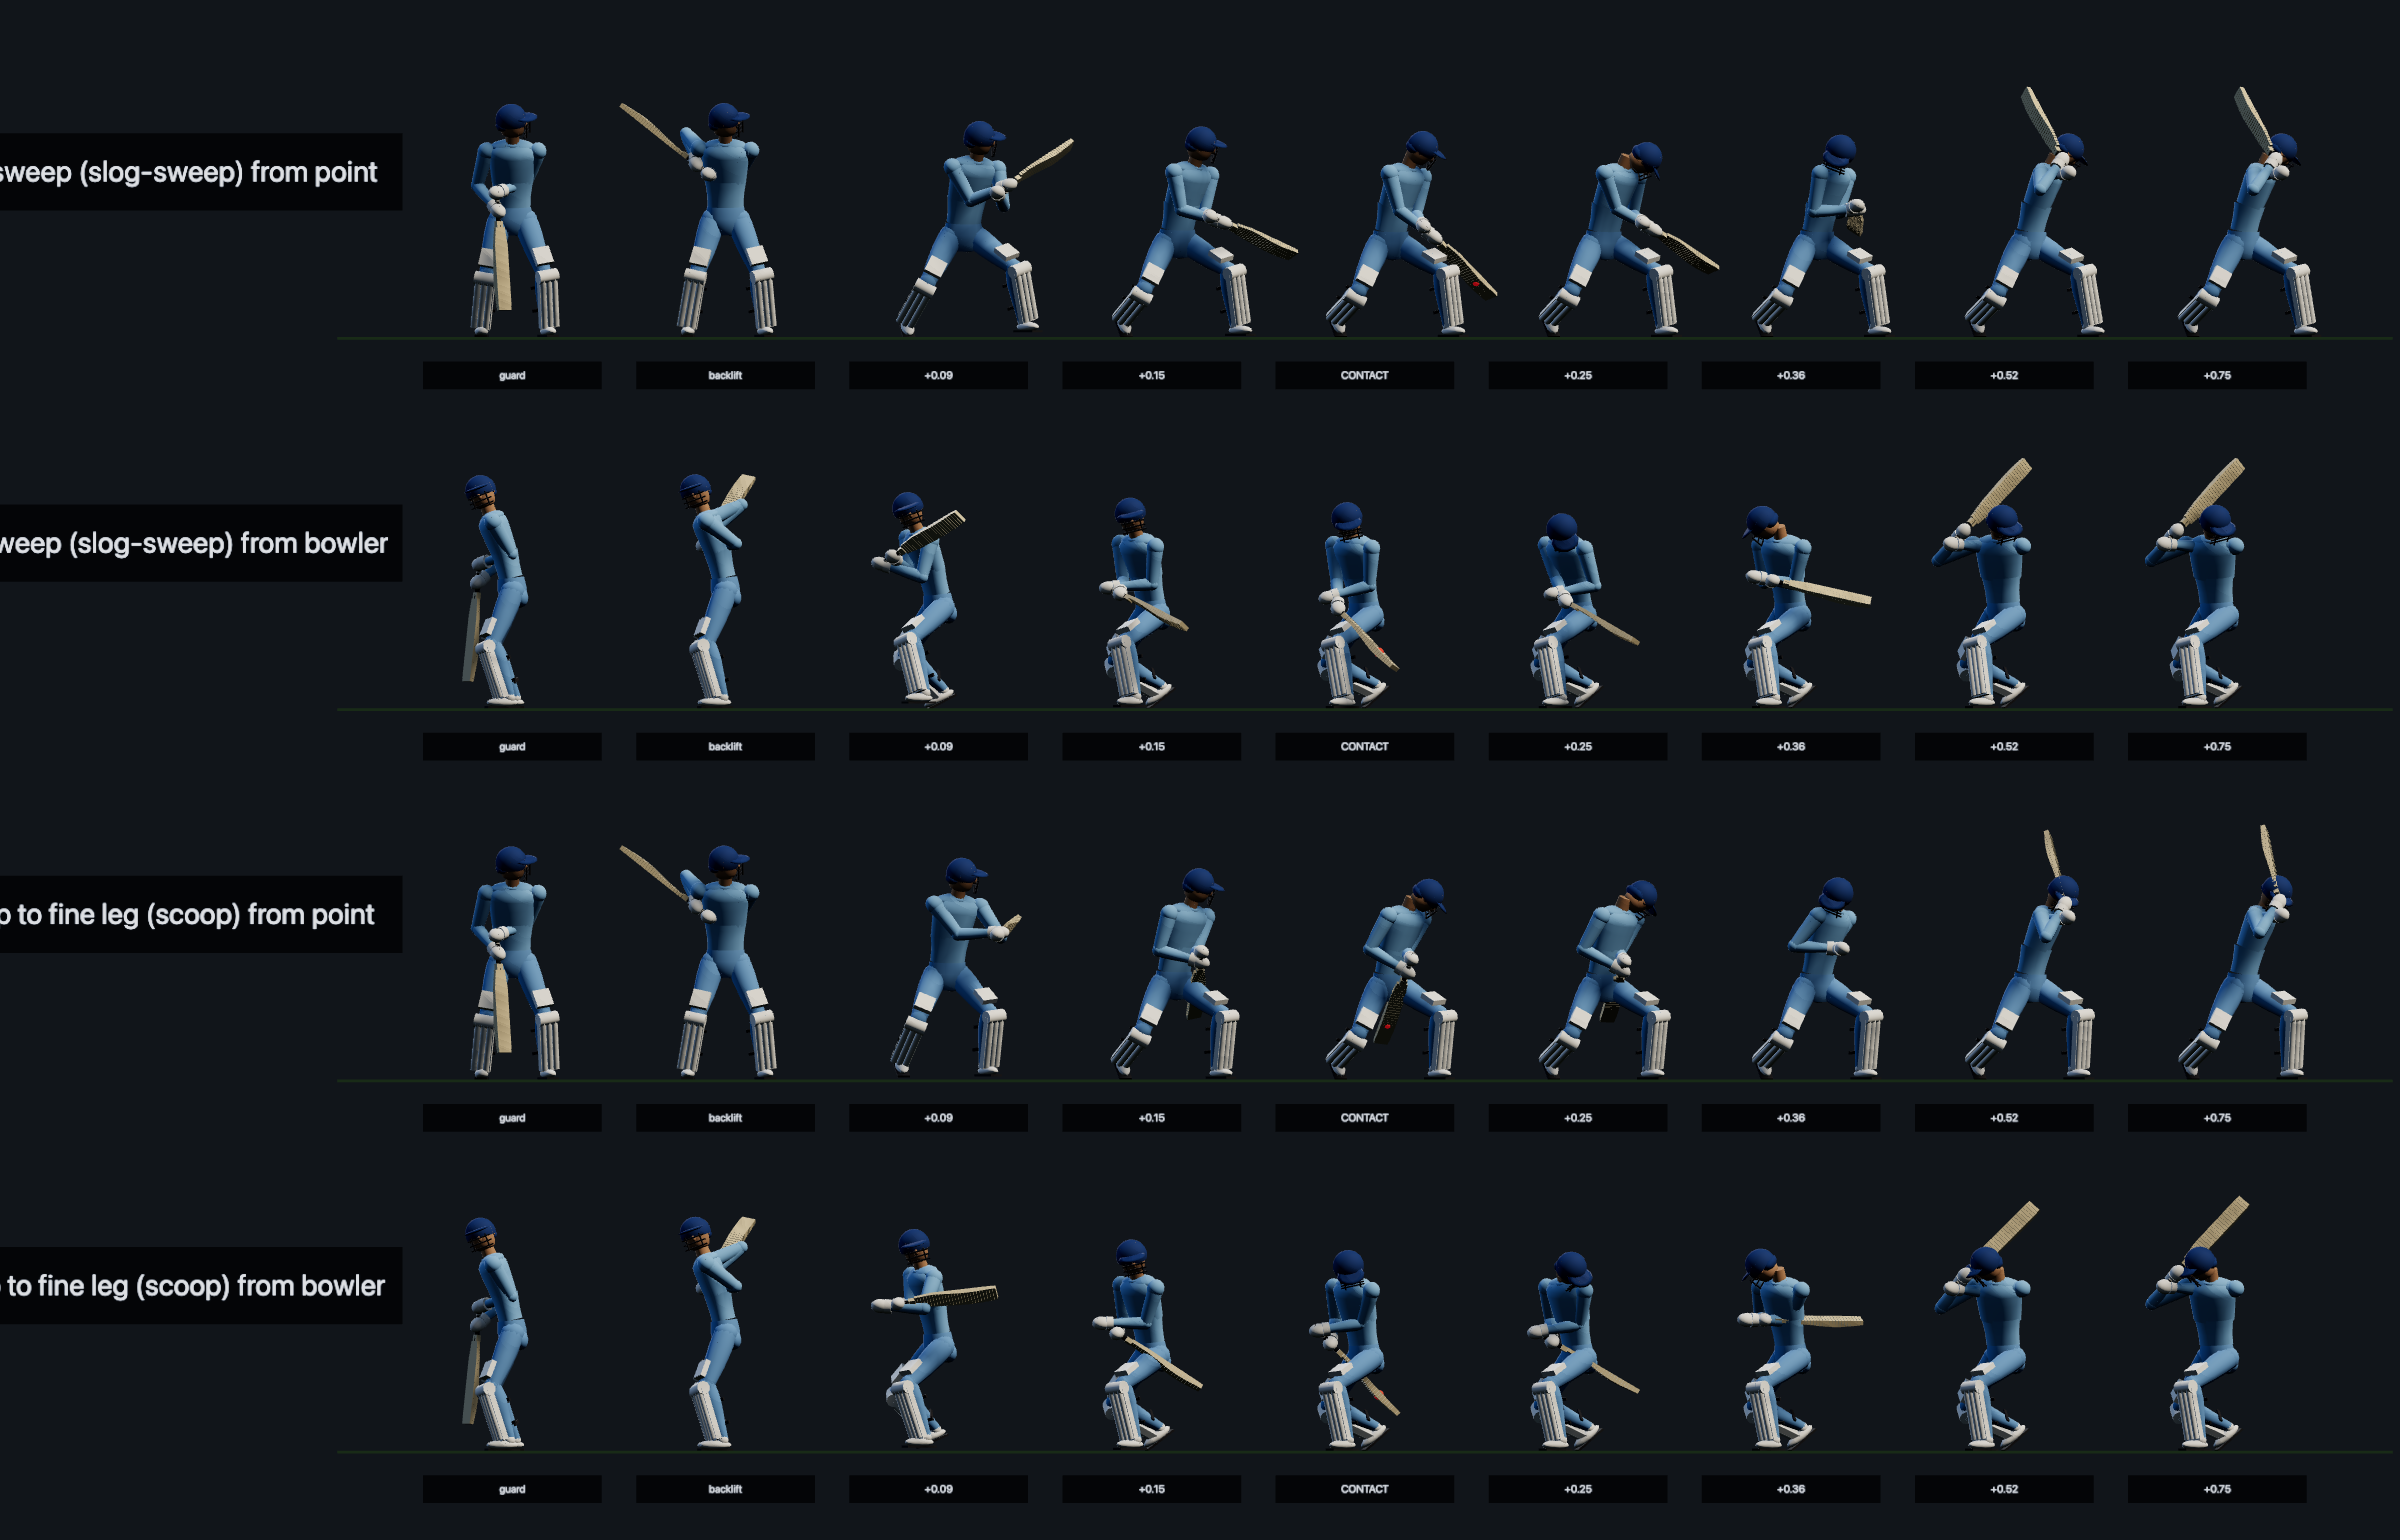
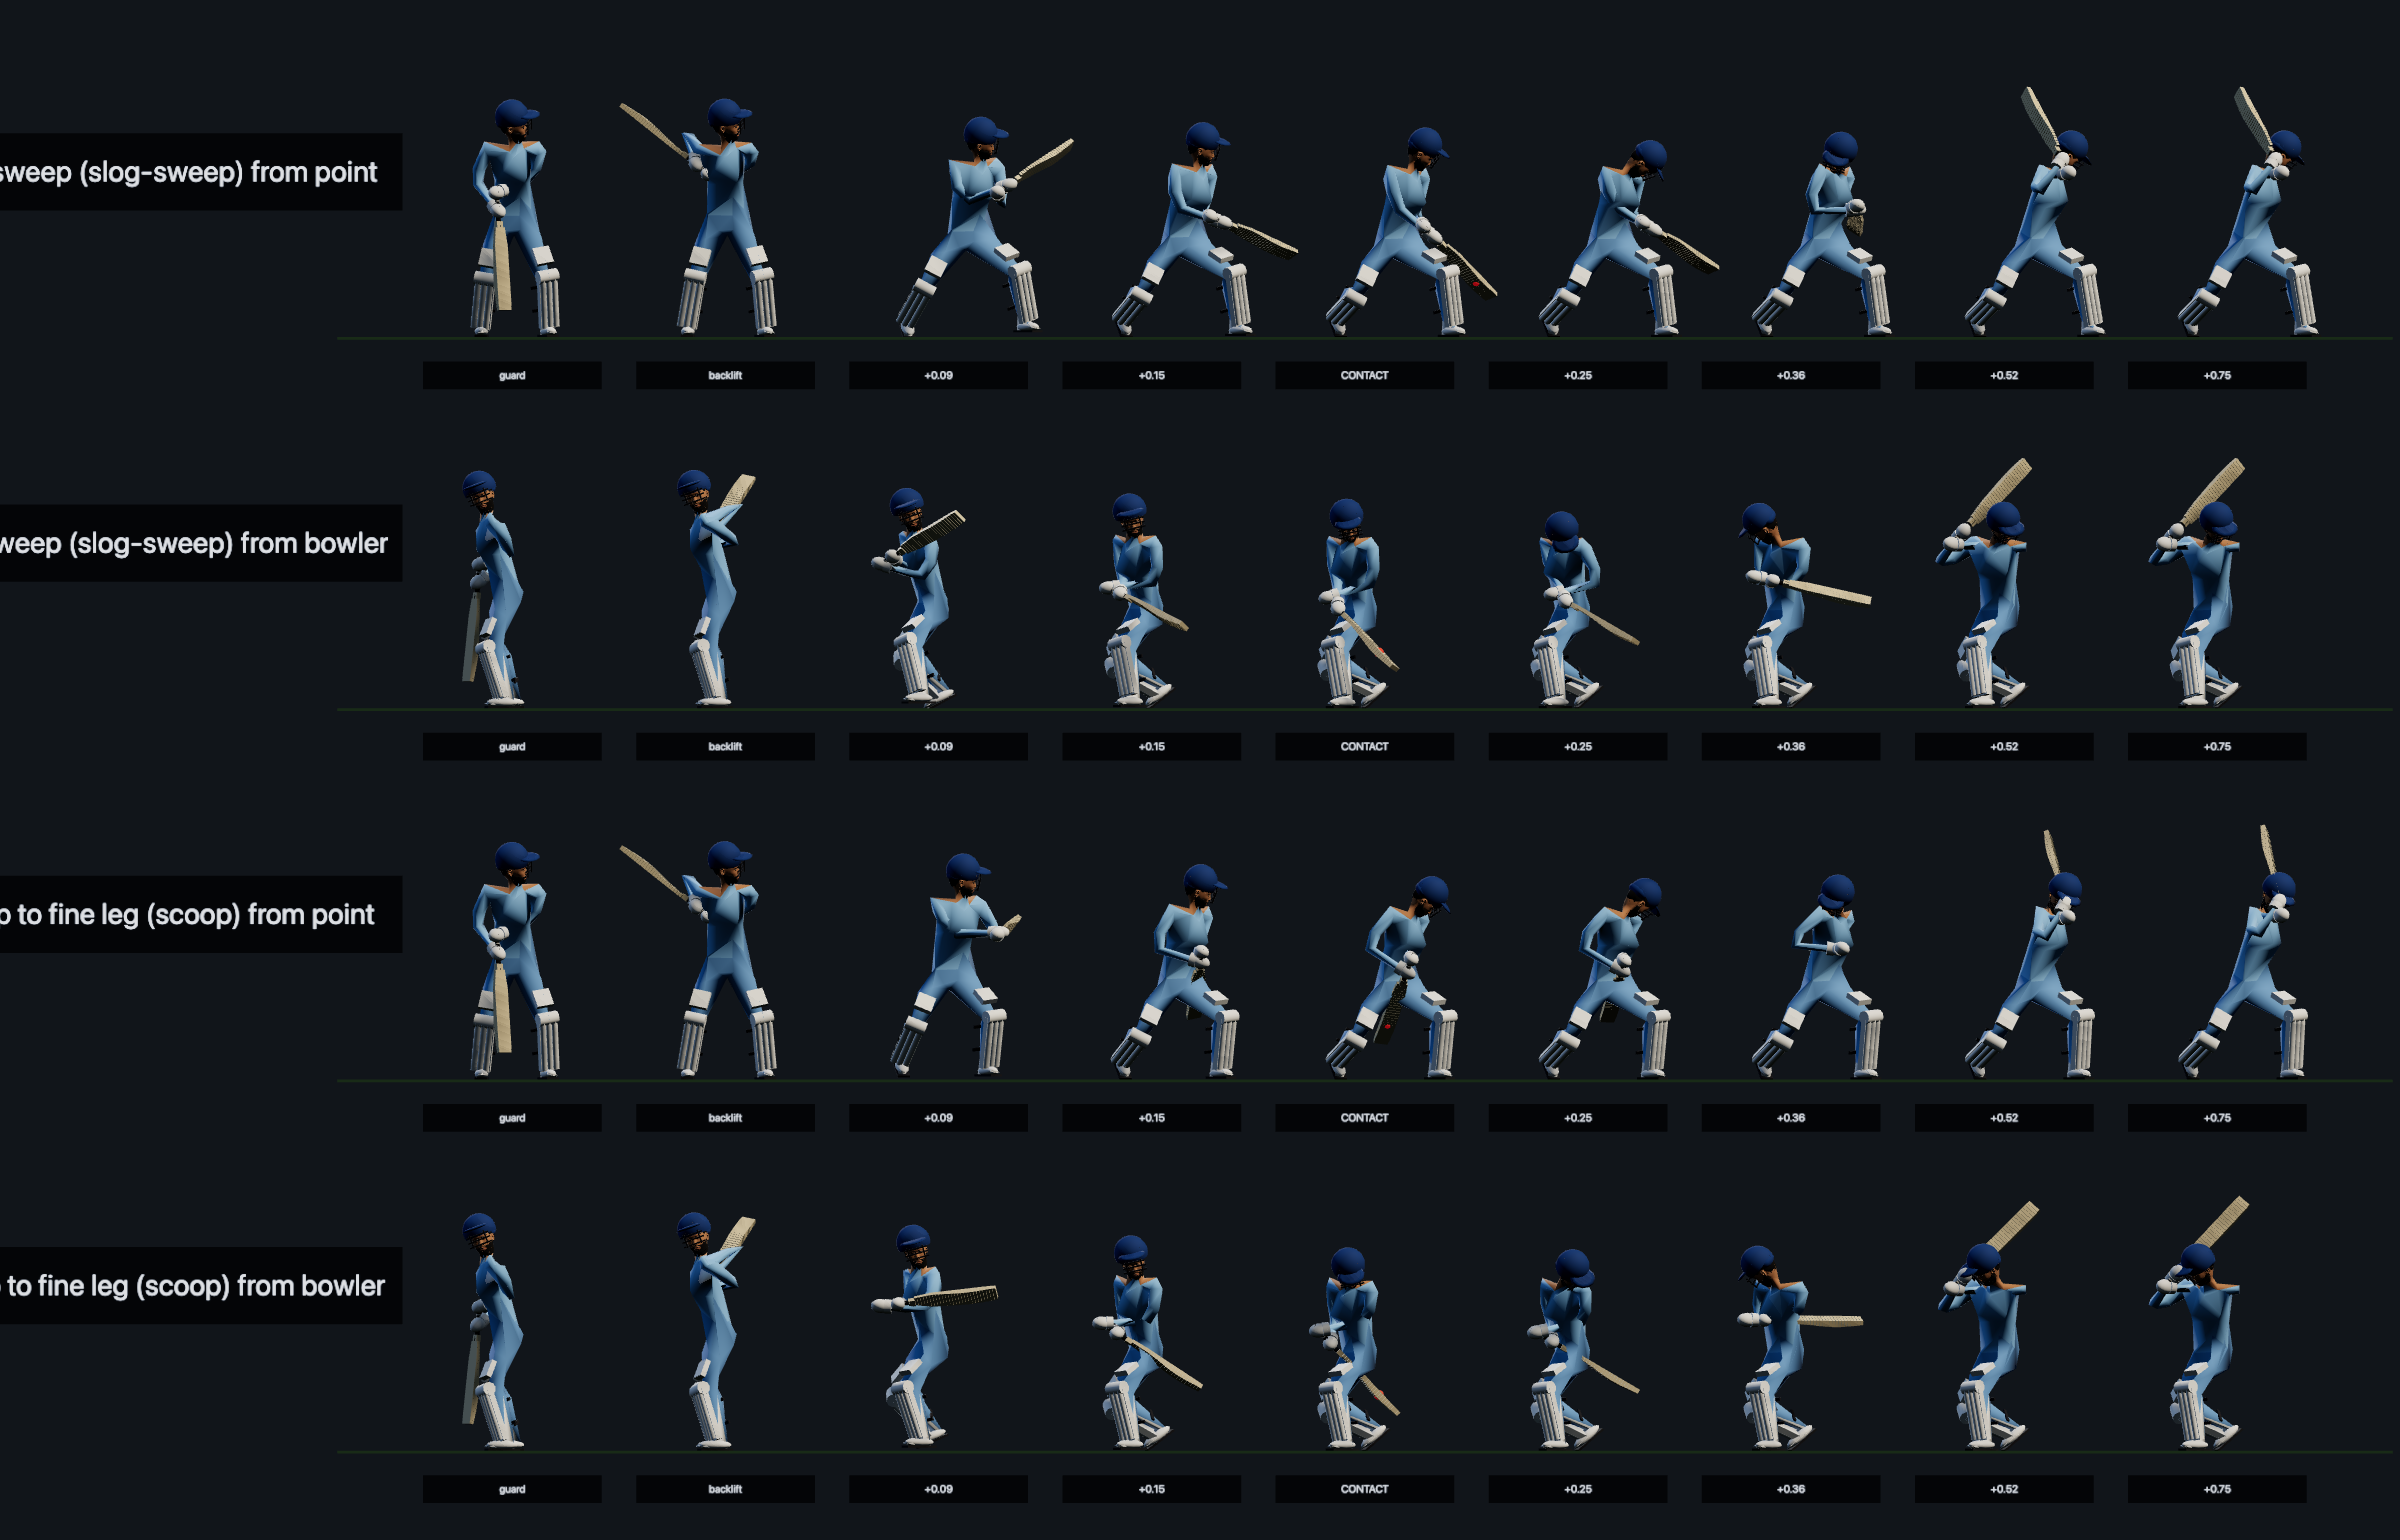
chore(preview): dress the motion sheets and asset preview

diff --git a/lib/game/anim/sheets.ts b/lib/game/anim/sheets.ts
@@ -9,6 +9,8 @@
  * a number.
  */
 
+import type { BodyLibrary } from "../assets/bodies";
+import { dressAs, sampleFor } from "../roster/cast";
 import * as THREE from "three";
 import {
   BATTING_KIT,
@@ -58,9 +60,17 @@ export function posedFrame(
   label?: string
 ): MotionFrame & { rig: PlayerRig } {
   const rig = makePlayer({ role, colours });
+  dressSample(rig, role);
   applyPose(rig, pose);
   rig.root.rotation.y = yaw;
   return { group: rig.root, label, rig };
+}
+
+/** Bodies for the frames, set by `motionSheets`. Measuring rigs stay bare. */
+let sheetBodies: BodyLibrary | null = null;
+function dressSample(rig: PlayerRig, role: Role): void {
+  if (!sheetBodies) throw new Error("motion sheets: no bodies loaded");
+  dressAs(rig, sheetBodies, sampleFor(role));
 }
 
 export function marker(color: number, r = 0.05): THREE.Mesh {
@@ -415,6 +425,7 @@ function fieldingSheet(): MotionSheet {
   kf.push(posedFrame("keeper", FIELDING_KIT, keeperCrouch(makePose(), 0), FRONT, "crouch"));
   for (const [h, lbl] of [[0.3, "low take"], [0.9, "waist"], [1.6, "chest"]] as const) {
     const rig = makePlayer({ role: "keeper", colours: FIELDING_KIT });
+    dressSample(rig, "keeper");
     const k = new FielderAnimator(rig, true);
     k.place(new THREE.Vector3(0, 0, 0), 0);
     const at = new THREE.Vector3(0.1, h, -0.5);
@@ -431,7 +442,8 @@ function fieldingSheet(): MotionSheet {
   return { name: "fielding", rows };
 }
 
-export async function motionSheets(): Promise<MotionSheet[]> {
+export async function motionSheets(bodies: BodyLibrary): Promise<MotionSheet[]> {
+  sheetBodies = bodies;
   const batting: MotionSheet[] = [];
   for (let i = 0; i < SHOTS.length; i += 2) {
     batting.push(battingSheet(SHOTS.slice(i, i + 2), `batting-${i / 2 + 1}`));

diff --git a/lib/game/assets/index.ts b/lib/game/assets/index.ts
@@ -6,6 +6,8 @@
  * the whole kit without the engine existing.
  */
 
+import type { BodyLibrary } from "./bodies";
+import { dressAs, sampleFor } from "../roster/cast";
 import * as THREE from "three";
 import { createMaterialLibrary, type MaterialLibrary } from "../materials";
 import { makeBall, makeBat, makeHelmet, makePads, makeStumps } from "./equipment";
@@ -20,6 +22,7 @@ export * from "./ground";
 export * from "./stadium";
 export * from "./kit";
 export { motionSheets } from "../anim/sheets";
+export { loadBodies } from "./bodies";
 
 export type PreviewEntry = { name: string; group: THREE.Group };
 
@@ -27,7 +30,7 @@ export type PreviewEntry = { name: string; group: THREE.Group };
  * Everything the preview harness renders. Takes a live renderer because the
  * material library needs the max-anisotropy capability off it.
  */
-export async function previewGroups(renderer: THREE.WebGLRenderer): Promise<PreviewEntry[]> {
+export async function previewGroups(renderer: THREE.WebGLRenderer, bodies: BodyLibrary): Promise<PreviewEntry[]> {
   const lib: MaterialLibrary = createMaterialLibrary(renderer);
   const mats = { standard: undefined }; // equipment uses its own cached materials
 
@@ -57,6 +60,7 @@ export async function previewGroups(renderer: THREE.WebGLRenderer): Promise<Prev
   // sheets (`pnpm preview:motion`), not here.
   const posed = (role: Role, colours = FIELDING_KIT, ready = false) => {
     const rig = makePlayer({ role, colours });
+    dressAs(rig, bodies, sampleFor(role));
     applyPose(rig, ready ? readyPose(makePose(), 0) : idlePose(makePose(), 0));
     return rig.root;
   };

diff --git a/lib/game/assets/preview-boot.js b/lib/game/assets/preview-boot.js
@@ -1,5 +1,8 @@
 import * as THREE from "three";
-import { previewGroups, motionSheets } from "/lib/game/assets/index.mjs";
+import { previewGroups, motionSheets, loadBodies } from "/lib/game/assets/index.mjs";
+
+// The players' bodies, served by the harness from public/models/players.
+const bodies = await loadBodies();
 
 const W = 1600, H = 1000;
 
@@ -168,7 +171,7 @@ const shots = {};
  * sunken figure shows too.
  */
 async function runMotion() {
-  const sheets = await motionSheets();
+  const sheets = await motionSheets(bodies);
   const SPACING = 1.55;
   const ROW_H = 2.7;
   for (const sheet of sheets) {
@@ -226,7 +229,7 @@ async function runMotion() {
 
 async function run() {
   if (window.__PREVIEW_MODE === "motion") return runMotion();
-  const kit = await previewGroups(renderer);
+  const kit = await previewGroups(renderer, bodies);
 
   // Big things (the ground, a whole stand) dwarf a ball; they get their own
   // frame rather than shrinking everything else into invisibility.
